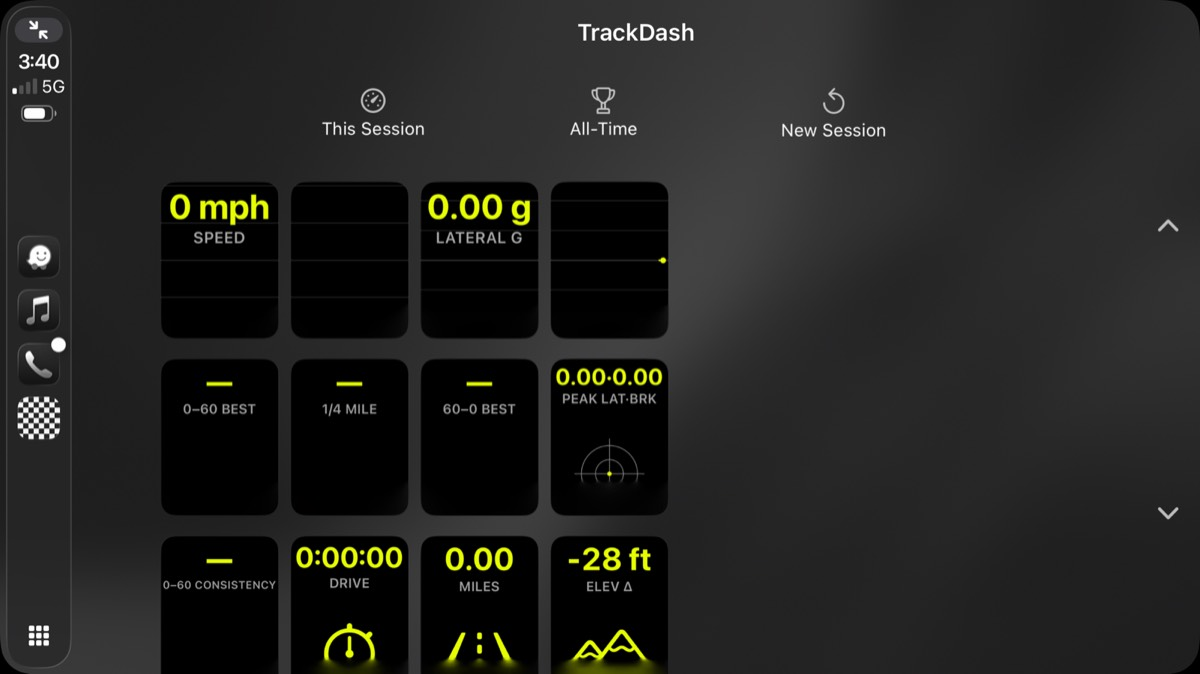
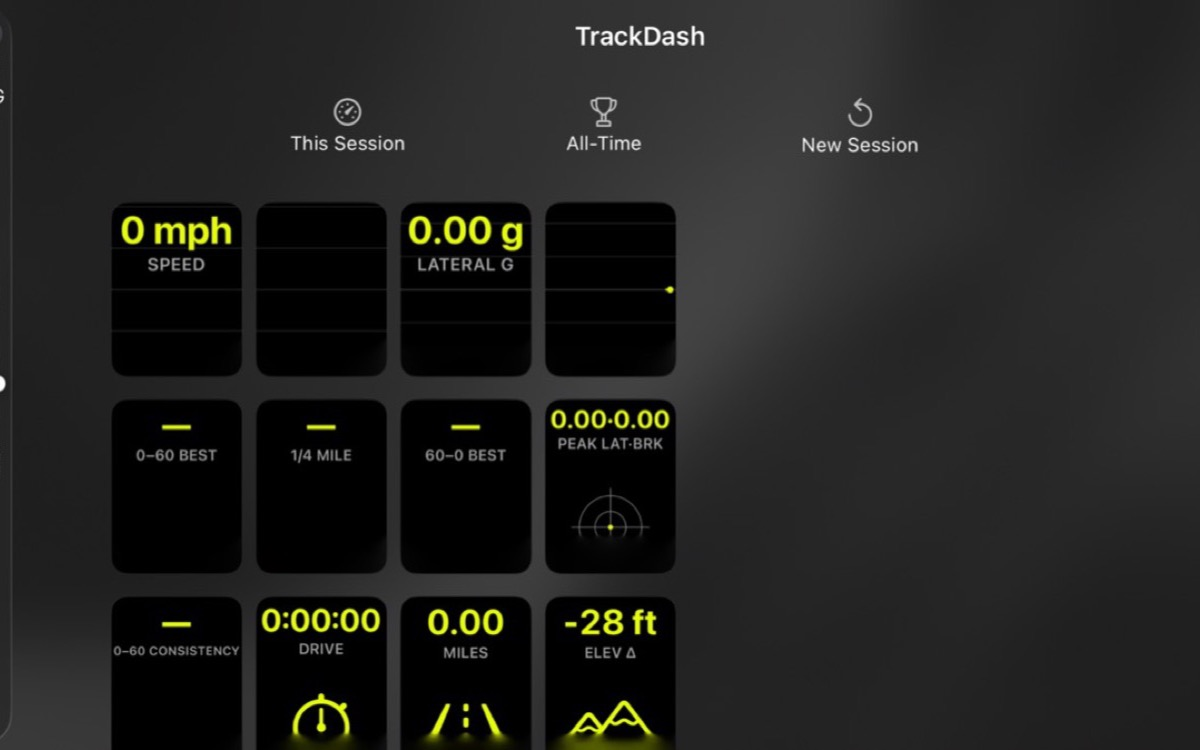
Normalise every tile image to 1200x750
Sources ranged from 644x1400 to 2560x1720, so they cropped differently and
rendered at inconsistent sharpness. All are now scaled to cover and
centre-cropped to an identical 16:10 frame, including the MyBEATS design
file, which is rasterised for the same treatment. Total tile imagery 800 KB.

diff --git a/index.html b/index.html
@@ -161,7 +161,7 @@
       </article>
       <article class="tile" data-reveal>
         <div class="tile__thumb">
-          <img src="assets/img/tools/mybeats-ui.svg" alt="MyBEATS interface — monochrome library view" loading="lazy">
+          <img src="assets/img/tools/mybeats.jpg" alt="MyBEATS interface — monochrome library view" loading="lazy">
         </div>
         <div class="tile__body">
           <div class="tile__head">
@@ -191,7 +191,7 @@
 
       <div class="tiles tiles--2" data-reveal-group data-reveal-step="60">
       <article class="tile" data-reveal>
-        <div class="tile__thumb"><img src="assets/img/tools/color-safety-lens.png" alt="Color Safety Lens interface showing tint ramps with WCAG pass badges" loading="lazy"></div>
+        <div class="tile__thumb"><img src="assets/img/tools/color-safety-lens.jpg" alt="Color Safety Lens interface showing tint ramps with WCAG pass badges" loading="lazy"></div>
         <div class="tile__body">
           <div class="tile__head">
             <h3 class="tile__title"><a class="tile__link" href="work/color-safety-lens.html">Color Safety Lens</a></h3>
@@ -202,7 +202,7 @@
         </div>
       </article>
       <article class="tile" data-reveal>
-        <div class="tile__thumb"><img src="assets/img/tools/diskmap.png" alt="Disk Map treemap showing disk usage by folder and file type" loading="lazy"></div>
+        <div class="tile__thumb"><img src="assets/img/tools/diskmap.jpg" alt="Disk Map treemap showing disk usage by folder and file type" loading="lazy"></div>
         <div class="tile__body">
           <div class="tile__head">
             <h3 class="tile__title">Disk Map</h3>
@@ -223,7 +223,7 @@
           <div class="tile__tags"><span class="tag">In testing</span></div>
         </div>
       </article>
-      <article class="tile tile--portrait" data-reveal>
+      <article class="tile" data-reveal>
         <div class="tile__thumb"><img src="assets/img/tools/asciicam.jpg" alt="ASCII Glitch Camera rendering a live camera feed as characters" loading="lazy"></div>
         <div class="tile__body">
           <div class="tile__head">

diff --git a/css/base.css b/css/base.css
@@ -518,7 +518,7 @@ section { padding-block: var(--gap-xl); }
   width: 100%;
   height: 100%;
   object-fit: cover;
-  object-position: top left;
+  object-position: center;
   display: block;
 }
 
@@ -526,9 +526,6 @@ section { padding-block: var(--gap-xl); }
 .tile--novisual .tile__thumb { display: grid; place-items: center; }
 .tile--novisual .tile__thumb svg { width: 78%; height: 78%; }
 
-/* Tall phone captures: crop to the middle of the screen rather than the
-   top-left, so the interface shows instead of the status bar. */
-.tile--portrait .tile__thumb img { object-position: center 38%; }
 
 .tile__body {
   padding: 1.1rem clamp(1rem, 2vw, 1.35rem) 1.35rem;
